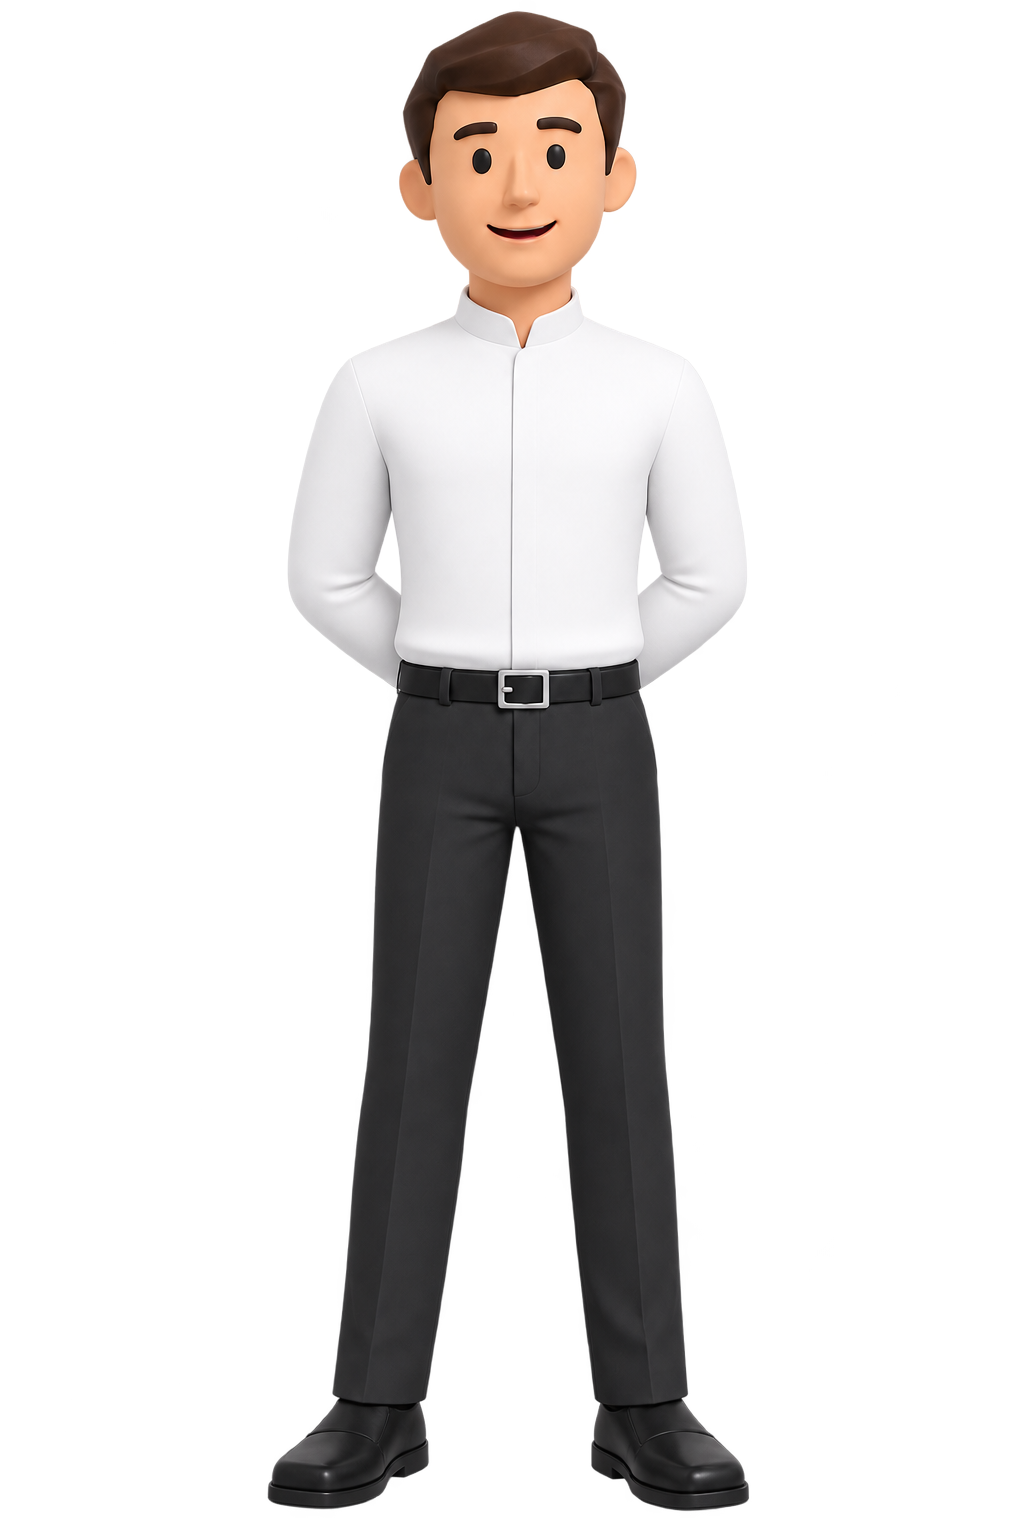
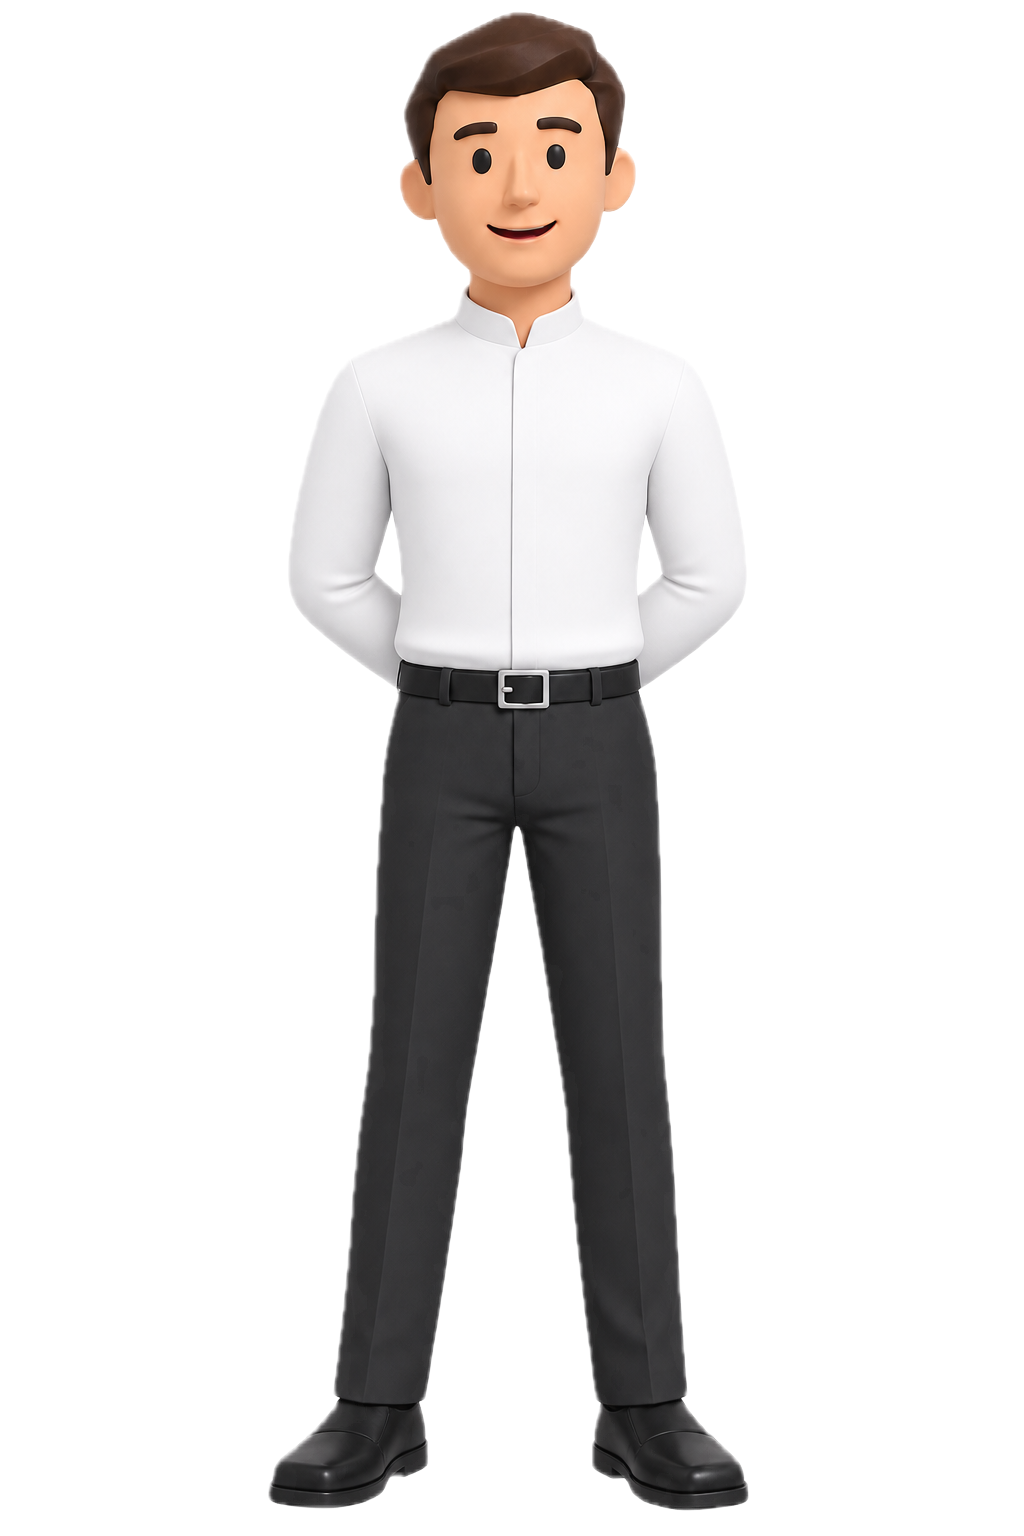
picker: original mascot, slightly bigger and lifted

diff --git a/app/bon-bon-stall/FestApp.tsx b/app/bon-bon-stall/FestApp.tsx
@@ -13,7 +13,7 @@ const STALLS = [
   { key: "bonbon", name: "Bon Bon",         pic: "/bon_bon_scoop.png", logo: "/fest/logo_bonbon.png" },
   { key: "kimchi", name: "Kim Chi & Ramen", pic: "/kimchi_ramen.png", logo: "/kimchi_new_logo.png" },
 ];
-const V = 42; // bump to bust the iframe cache after a rebuild
+const V = 44; // bump to bust the iframe cache after a rebuild
 
 export default function FestApp() {
   const [phase, setPhase] = useState<"splash" | "intro" | "pick">("splash");
@@ -95,7 +95,7 @@ export default function FestApp() {
 
         <div className={"bigglow" + (phase === "pick" ? " in" : "")} />
         <div className={"big" + (phase === "pick" ? " in" : "")}>
-          <img src="/mascot_img3.png" alt="" />
+          <img src="/fest/mascot_stand.png" alt="" />
         </div>
 
         <div className={"stage" + (cardsUp ? " up" : "")}
@@ -191,10 +191,10 @@ const CSS = `
 .craving .g{background:linear-gradient(95deg,#ff4d8d,#c14ff0 55%,#7c5cff);-webkit-background-clip:text;
   background-clip:text;-webkit-text-fill-color:transparent;font-size:30px;display:block}
 
-.big{position:absolute;left:50%;bottom:0;z-index:5;height:80vh;max-height:660px;
+.big{position:absolute;left:50%;bottom:0;z-index:5;height:86vh;max-height:700px;
   transform:translateX(-50%) translateY(30%);opacity:0;
   transition:transform 1.8s cubic-bezier(.33,.02,.2,1),opacity 1.2s ease}
-.big.in{transform:translateX(-50%) translateY(4%);opacity:1}
+.big.in{transform:translateX(-50%) translateY(-7%);opacity:1}
 .big img{height:100%;width:auto;display:block;filter:drop-shadow(0 0 60px rgba(255,190,140,.16))}
 .bigglow{position:absolute;left:50%;bottom:-6%;width:420px;height:420px;transform:translateX(-50%);z-index:4;
   background:radial-gradient(circle,rgba(255,150,190,.12),transparent 68%);opacity:0;transition:opacity 1.6s ease}
